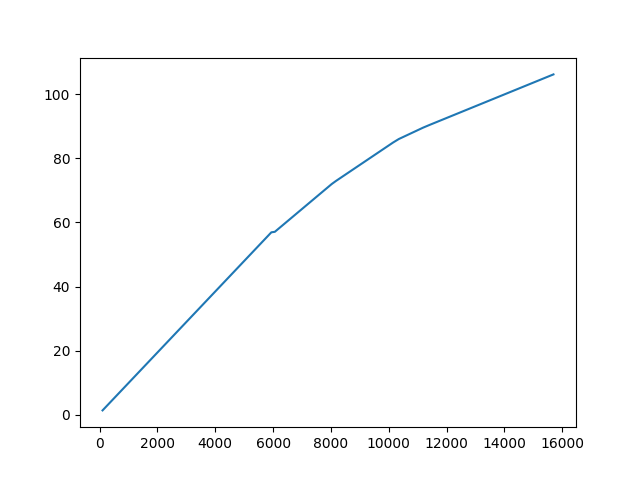
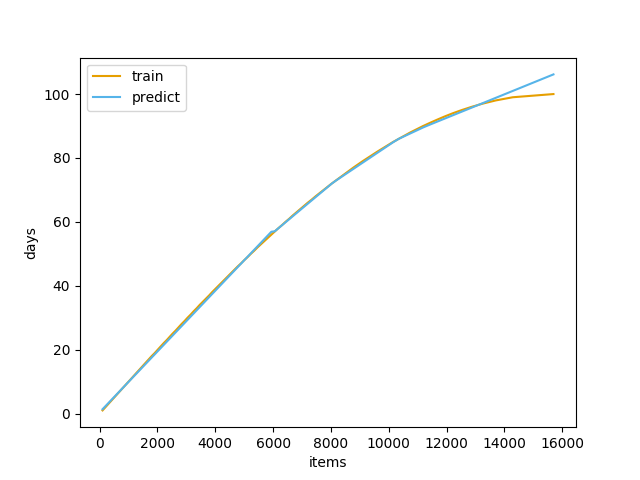
update

diff --git a/deep_regression_plot.py b/deep_regression_plot.py
@@ -52,10 +52,9 @@ def main():
     # 予測結果に対し標準化の逆変換
     yp = result[:,0] * y.std() + y.mean()
 
-    # グラフ表示
-    plt.plot(xp, yp)
-    plt.savefig('result_figure.png')
-    # プロットデータをCSVに出力
+    # データプロット
+    plot_data(x, y, xp, yp)
+    # データをCSVに出力
     np.savetxt('result.csv', np.c_[xp,yp], delimiter=',')
 
 
@@ -79,6 +78,23 @@ def input_normalization(X, x):
         t = x[:,i]
         X[:,i] = (X[:,i] - t.mean()) / t.std()
     return X
+
+
+def plot_data(x, y, xp, yp):
+    # グラフの軸ラベルを設定
+    plt.xlabel('items')
+    plt.ylabel('days')
+
+    # 学習データをプロット
+    train, = plt.plot(x, y, c='#E69F00')
+    # 予測データをプロット
+    predict, = plt.plot(xp, yp, c='#56B4E9')
+
+    # グラフの凡例（はんれい）を追加
+    plt.legend([train, predict], ['train', 'predict'])
+
+    # グラフを保存
+    plt.savefig('result_figure.png')
 
 
 if __name__ == '__main__':
